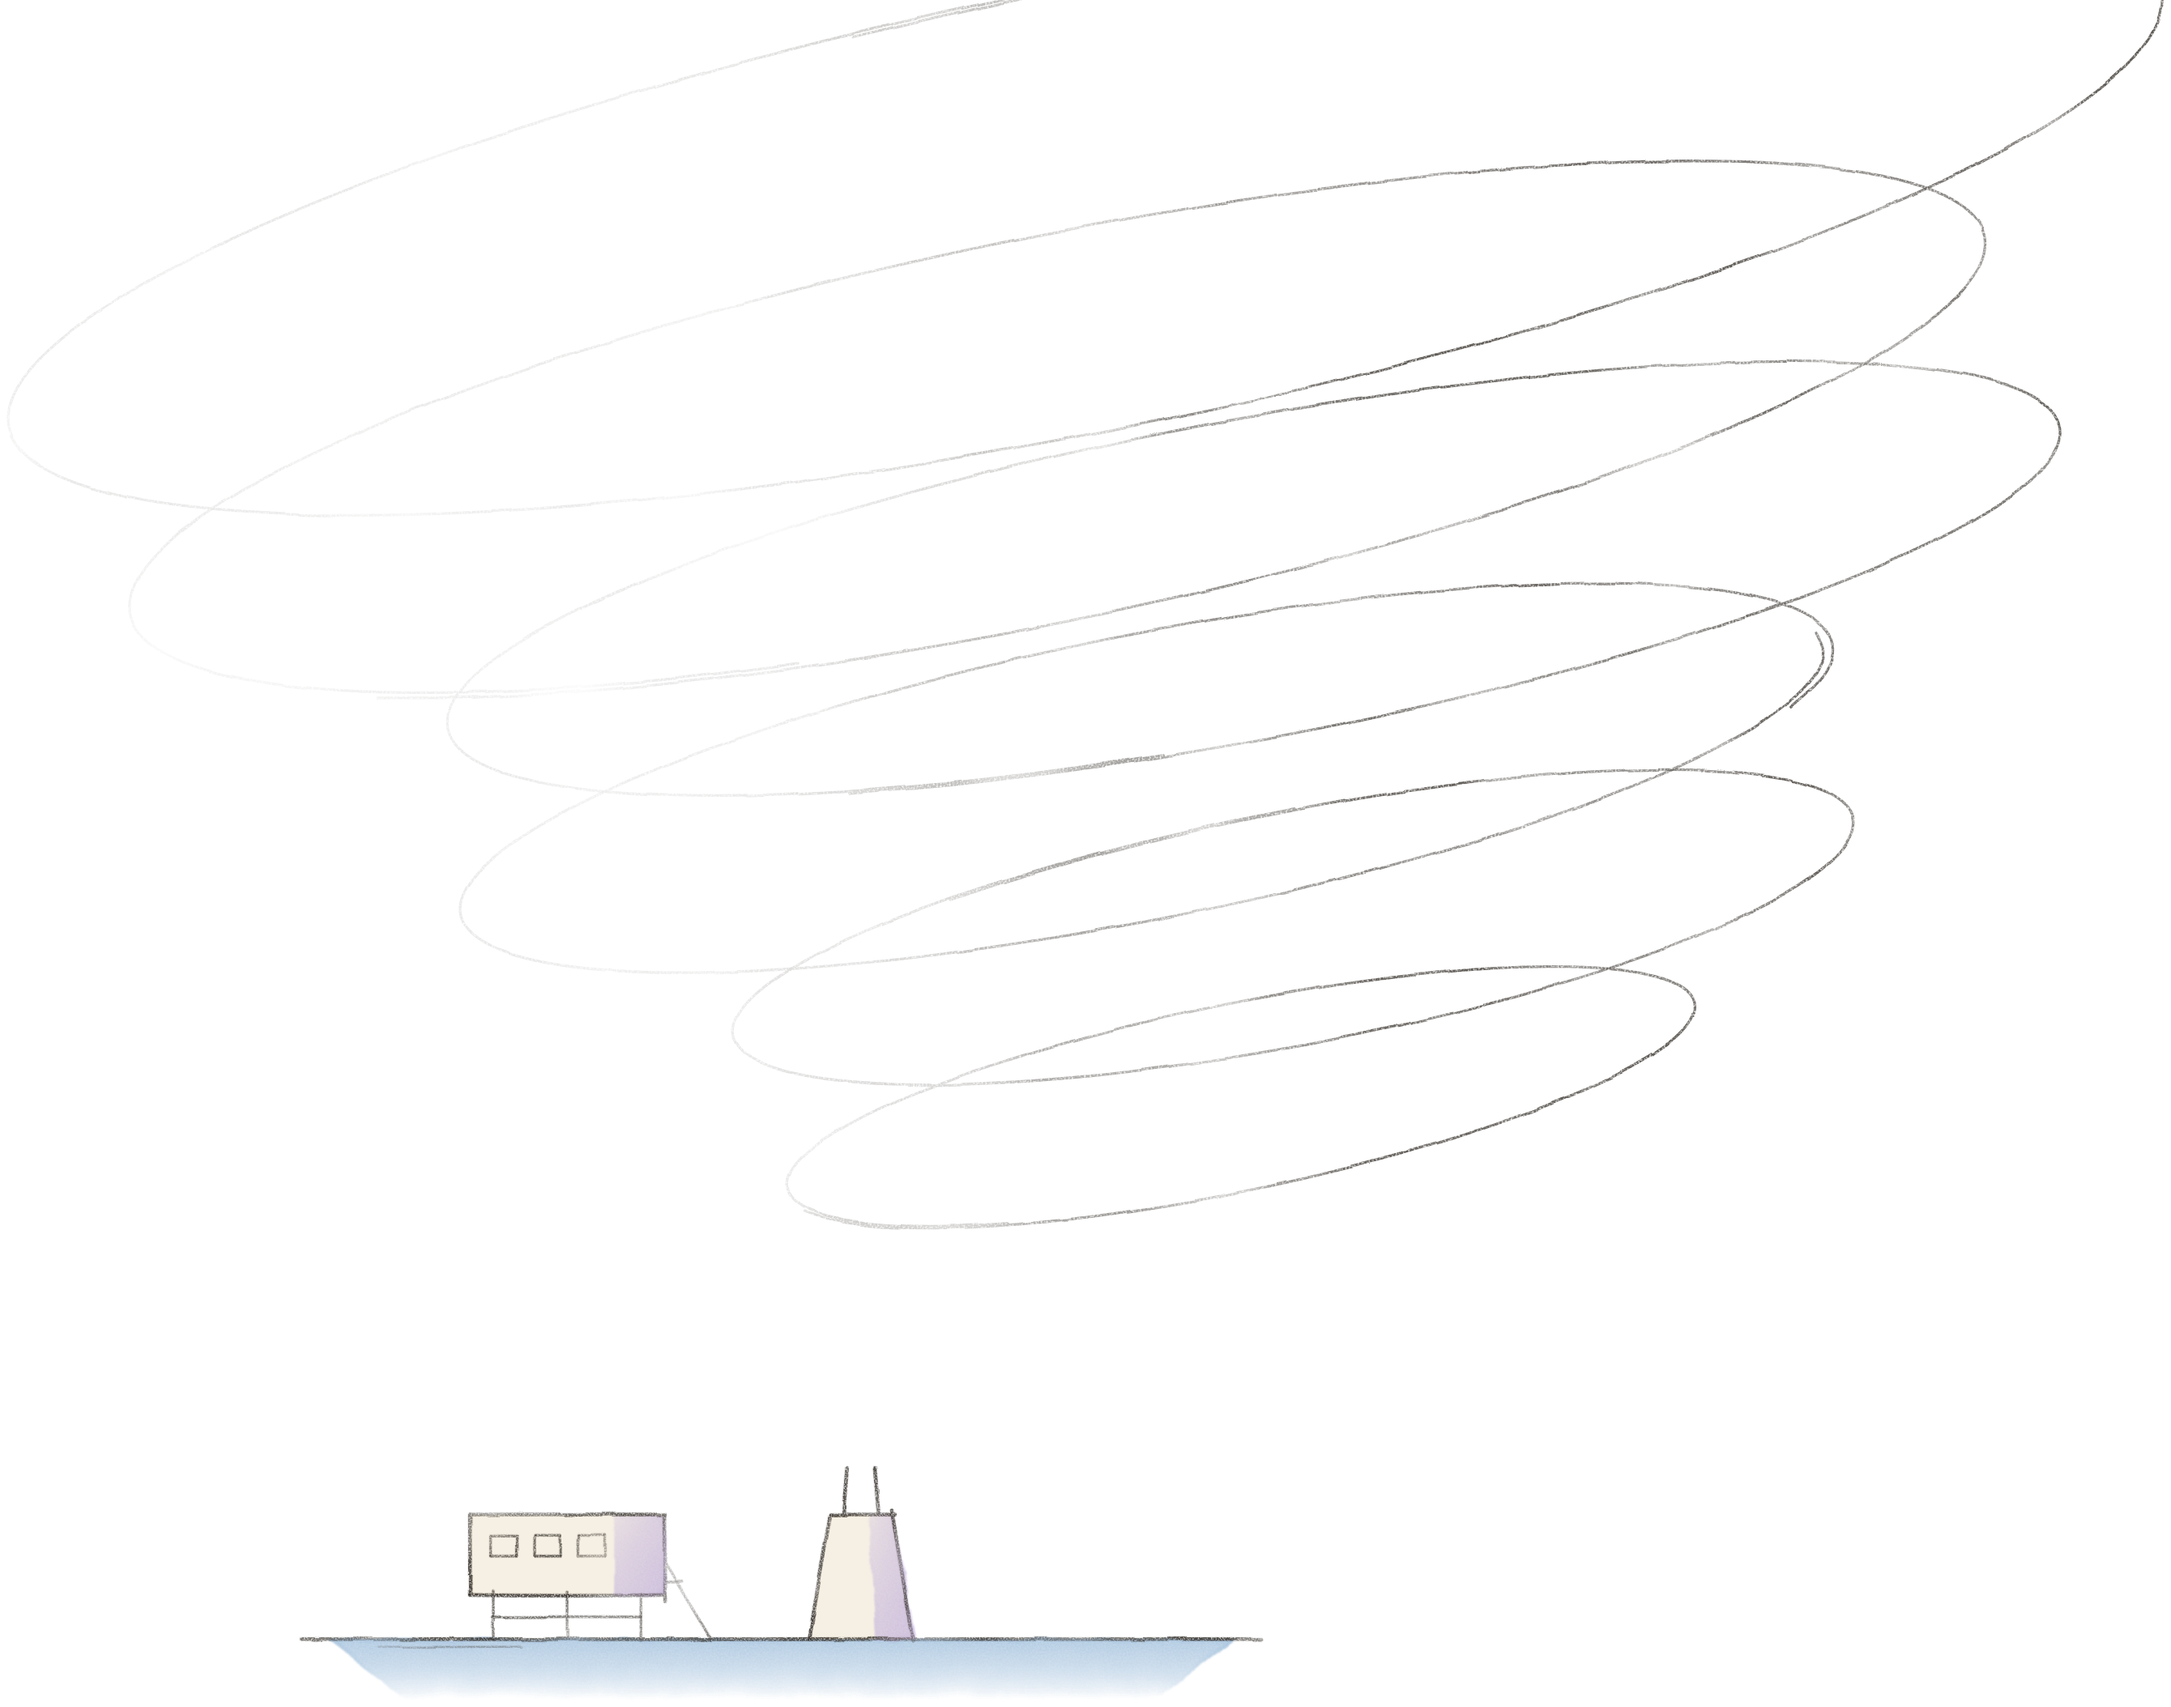
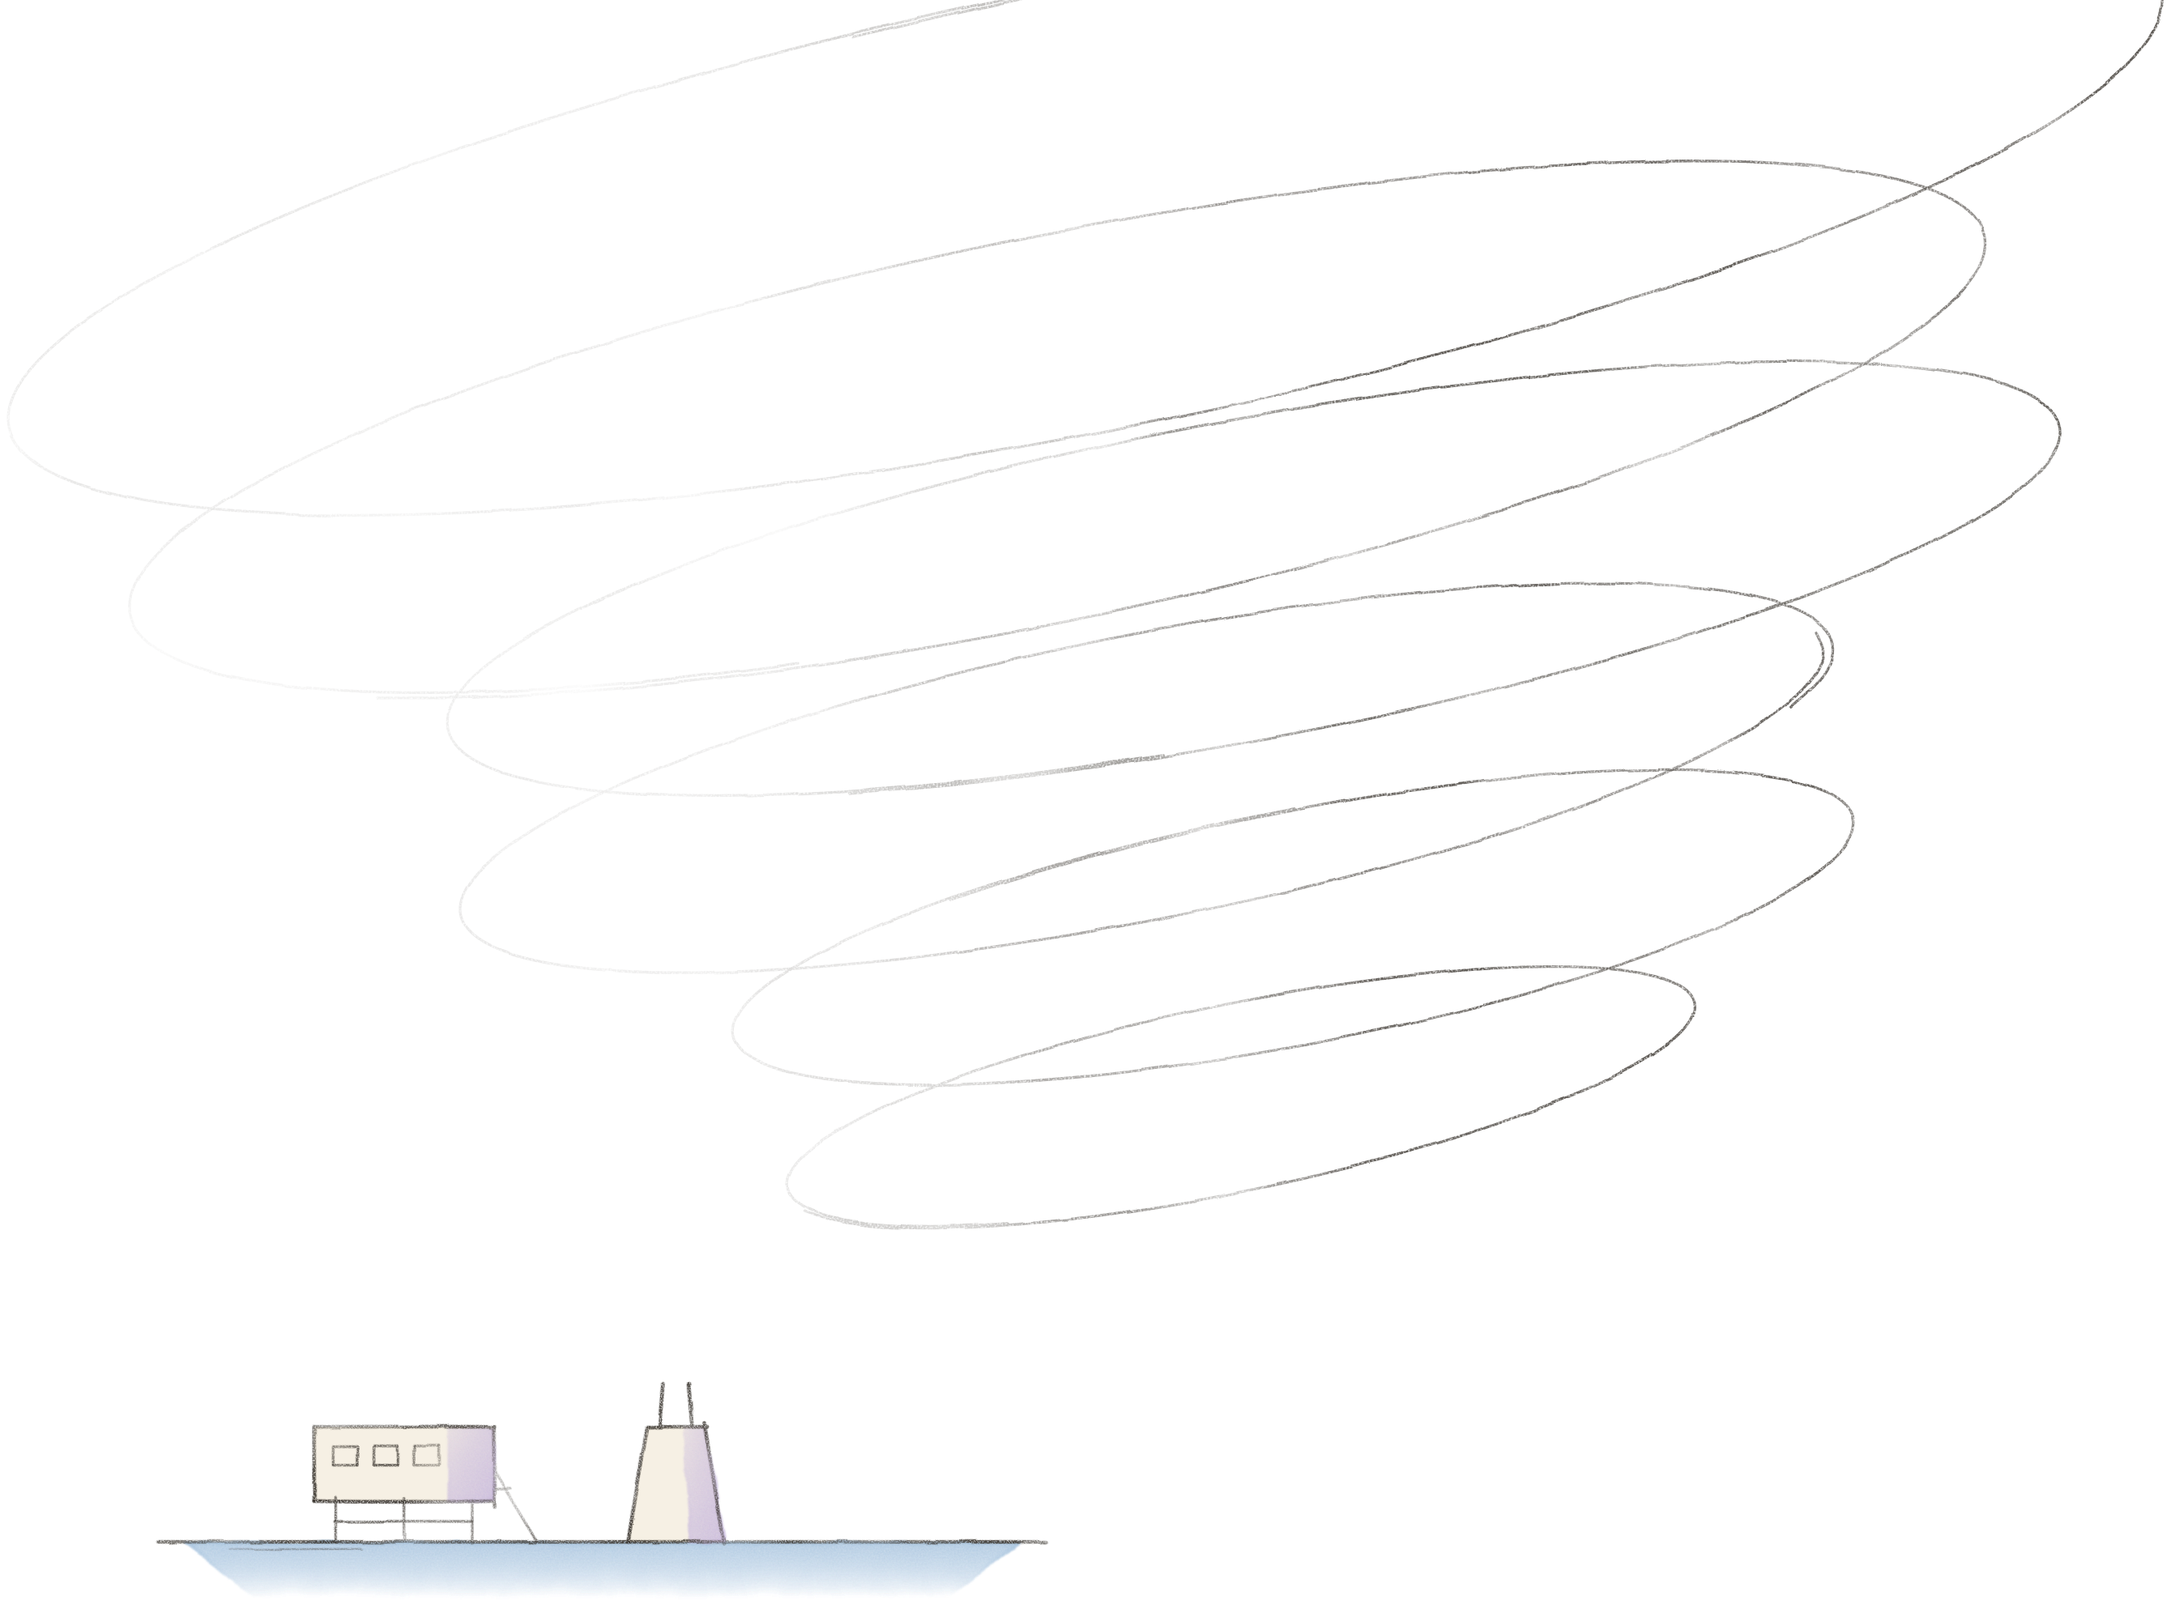
ICE: the euclid-spt opener's telescope stands above the footer; unions-3x2pt credit set as on its neighbours, no bare y axis
Claude-Session: https://claude.ai/code/session_01JK7o9Fj8deNMRu8ug2BLJL

diff --git a/2611_ICE_Barcelona/slides/unions-3x2pt.html b/2611_ICE_Barcelona/slides/unions-3x2pt.html
@@ -4,7 +4,7 @@
     <svg viewBox="0 24 1712 386" role="img" aria-label="Redshift distributions between redshift 0 and 1.6, each scaled to a peak of one: six narrow bins of the SPHEREx all-sky lens sample LSx v0.9 between redshift 0 and 0.55, in front of the source galaxies of the first UNIONS release, whose distribution rises to a broad peak near 0.5 and falls away to 1.6">
       <!-- the axes, in pencil -->
       <g class="pencil fill-none stroke-ink" stroke-width="2.2" stroke-linecap="round">
-        <path d="M60 300 H1652 M60 300 V72 M60 300 V313 M259 300 V313 M458 300 V313 M657 300 V313 M856 300 V313 M1055 300 V313 M1254 300 V313 M1453 300 V313 M1652 300 V313"/>
+        <path d="M60 300 H1652 M60 300 V313 M259 300 V313 M458 300 V313 M657 300 V313 M856 300 V313 M1055 300 V313 M1254 300 V313 M1453 300 V313 M1652 300 V313"/>
       </g>
       <g font-size="35" text-anchor="middle" class="fill-muted">
         <text x="60" y="354">0</text><text x="259" y="354">0.2</text><text x="458" y="354">0.4</text><text x="657" y="354">0.6</text><text x="856" y="354">0.8</text><text x="1055" y="354">1</text><text x="1254" y="354">1.2</text><text x="1453" y="354">1.4</text><text x="1652" y="354">1.6</text>
@@ -46,7 +46,7 @@
       <li>first chain on GLASS mocks (stand-in lens bins) recovers $\Omega_{\rm m}$</li>
       <li class="fragment">next: real lens bins in the mocks, a blind, then data</li>
     </ul>
-    <p class="source">Led by <span class="who"><img src="images/collaborators/calum-murray.jpg" alt="Calum Murray">Calum Murray</span> and <span class="who"><img src="images/collaborators/cail-daley.jpg" alt="Cail Daley">myself</span></p>
+    <p class="source"><span class="who"><img src="images/collaborators/calum-murray.jpg" alt="Calum Murray">Led by Calum Murray</span><span class="who"><img src="images/collaborators/cail-daley.jpg" alt="Cail Daley">and myself</span></p>
   </div>
   <aside class="notes">
     <ul class="skim">

diff --git a/2611_ICE_Barcelona/deck.css b/2611_ICE_Barcelona/deck.css
@@ -125,6 +125,7 @@
 /* the drawings' instruments sweep their patch of sky: each view turns about the instrument, a point of
    the frame (make_art.mjs: the dish's pivot, Mauna Kea's summit dome, Euclid's middle) taken from the layer's own corner */
 .slide figure.art > img.about-spt    { transform-origin: calc(1097.6px - var(--x, 0px)) calc(912.8px - var(--y, 0px)); --sweep: 1.5deg; --sweep-time: 13s; }
+[data-house-slide="euclid-spt"] .slide figure.art > img.about-spt { transform-origin: calc(983.3px - var(--x, 0px)) calc(860.2px - var(--y, 0px)); }   /* on this opener the telescope stands above the footer */
 .slide figure.art > img.about-unions { transform-origin: calc(1540px - var(--x, 0px)) calc(792px - var(--y, 0px)); --sweep: 1.1deg; --sweep-time: 17s; }
 .slide figure.art > img.about-euclid { transform-origin: calc(1752px - var(--x, 0px)) calc(600px - var(--y, 0px)); --sweep: 0.9deg; --sweep-time: 21s; }
 

diff --git a/2611_ICE_Barcelona/slides/euclid-spt.html b/2611_ICE_Barcelona/slides/euclid-spt.html
@@ -8,8 +8,8 @@
     <img src="images/ice_art/euclid-spt-sheet3.png" class="wash breathe t2" data-at="850 361 849 242" alt="">
     <img src="images/ice_art/euclid-spt-sheet4.png" class="wash breathe t1" data-at="1014 470 703 202" alt="">
     <img src="images/ice_art/euclid-spt-sheet5.png" class="wash breathe t0" data-at="1046 593 571 165" alt="">
-    <img src="images/ice_art/euclid-spt-rims.png" data-at="566 0 1340 1054" alt="">
-    <img src="images/ice_art/euclid-spt-spt.png" class="sweep about-spt" data-at="994 733 249 193" alt="">
+    <img src="images/ice_art/euclid-spt-rims.png" data-at="566 0 1340 991" alt="">
+    <img src="images/ice_art/euclid-spt-spt.png" class="sweep about-spt" data-at="893 710 245 167" alt="">
     <img src="images/ice_art/euclid-spt-euclid.png" class="sweep about-euclid" data-at="1639 498 206 208" alt="">
   </figure>
   <aside class="notes">
